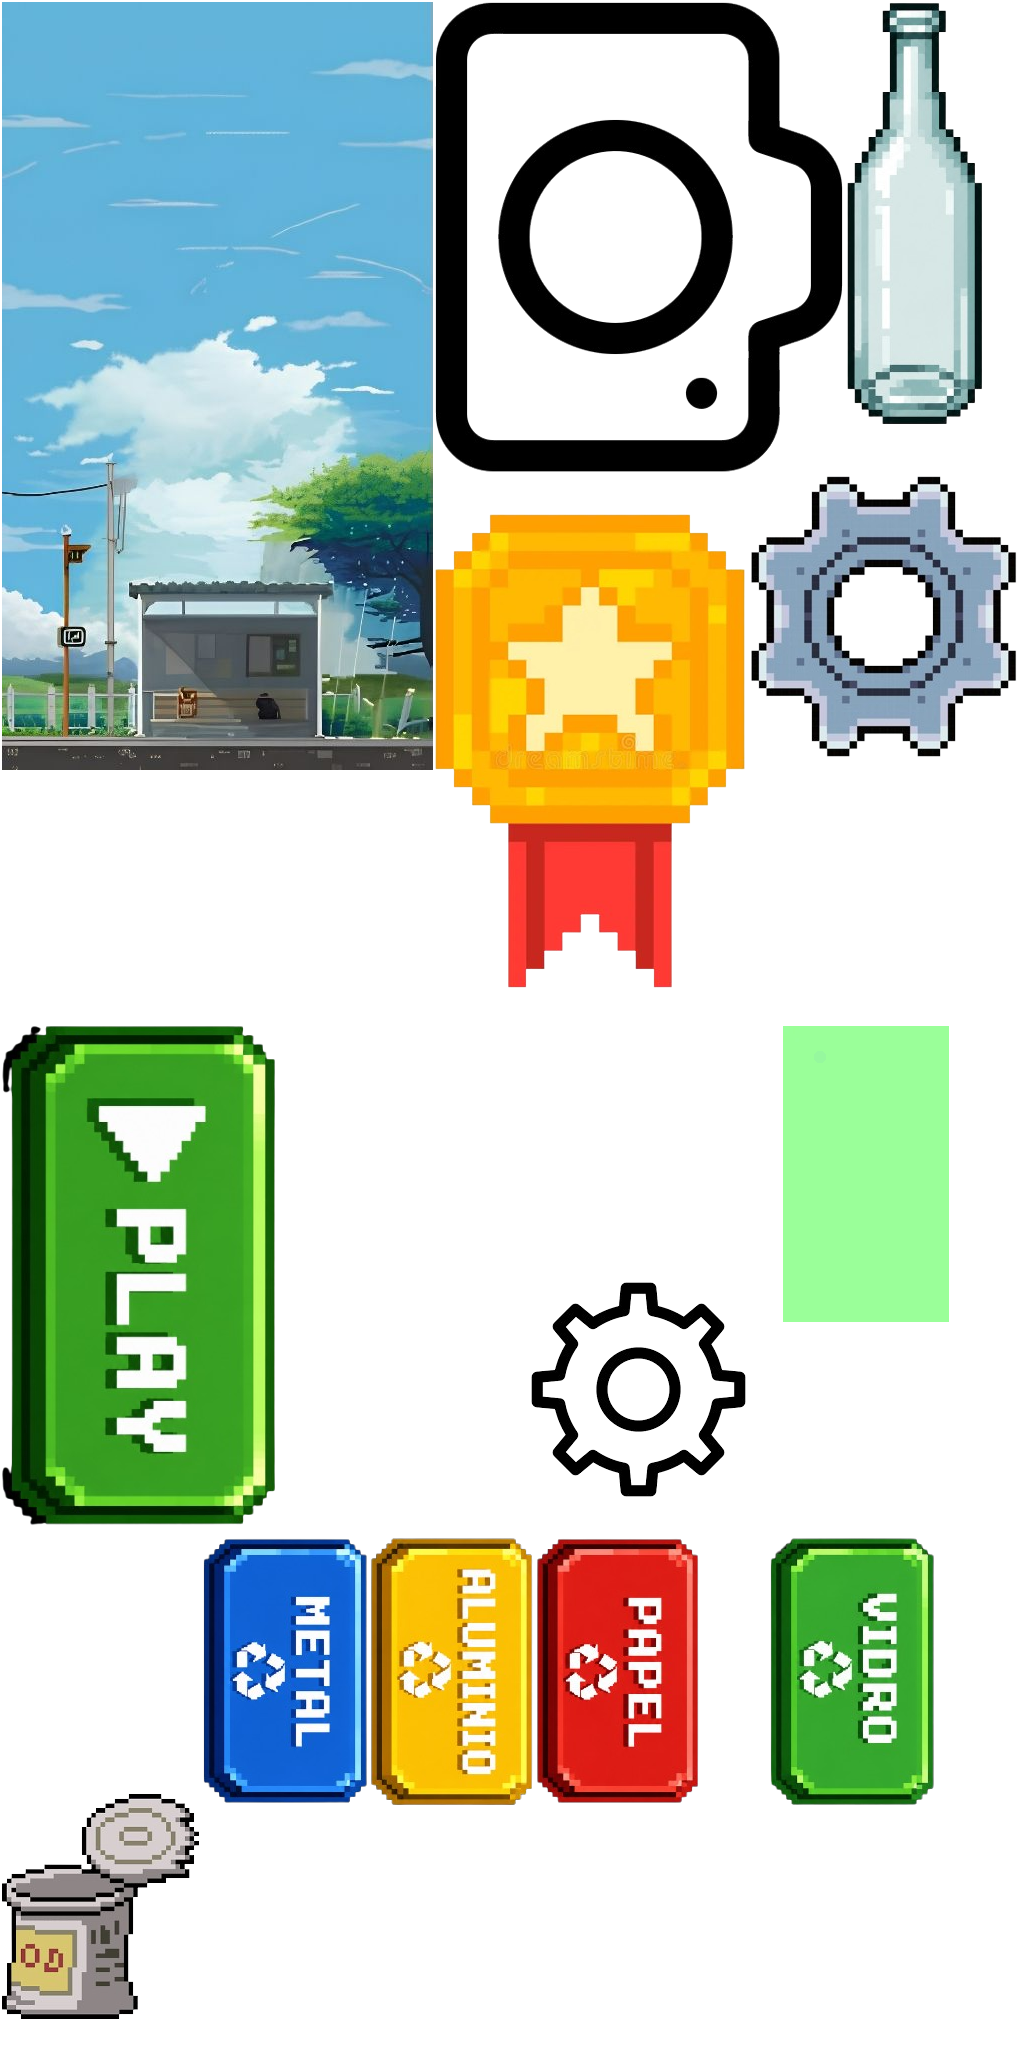
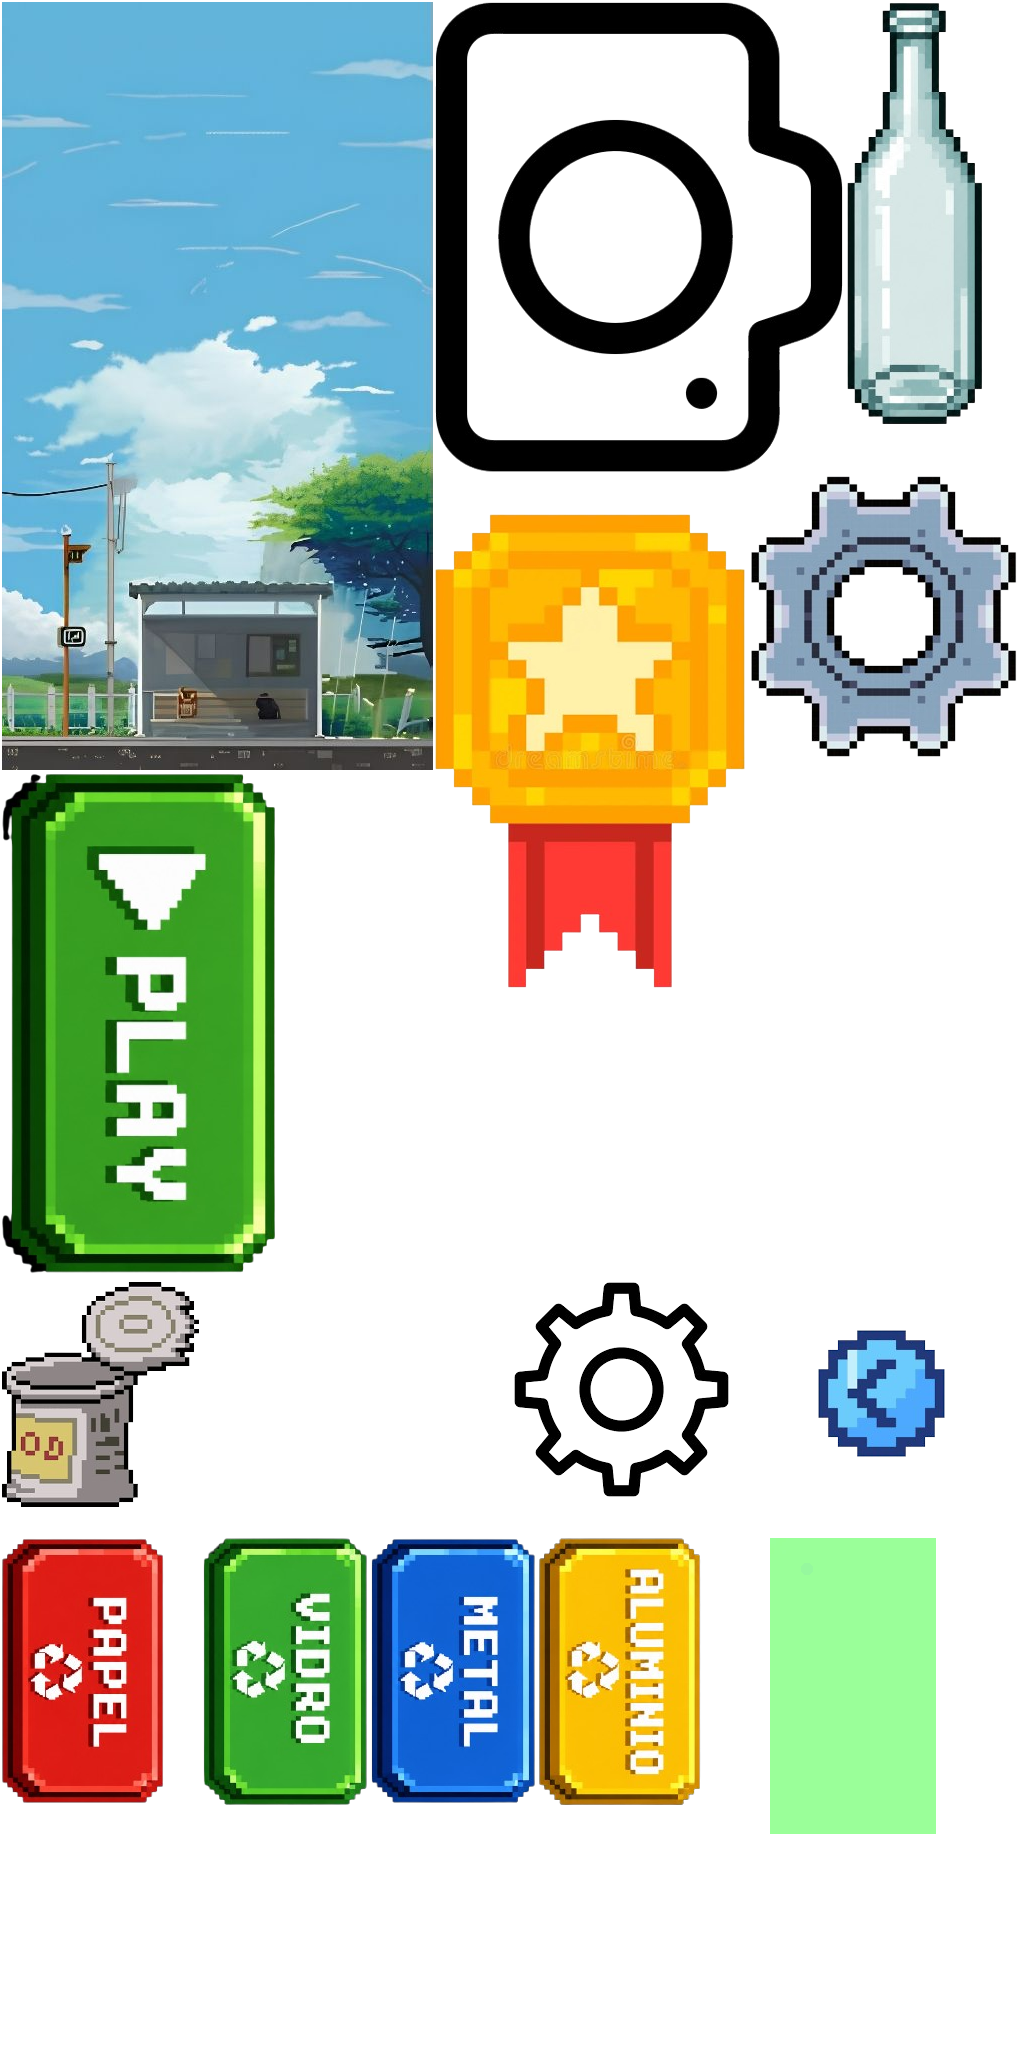
Add files via upload

Changed region(s): [[0.0, 0.375, 0.75, 1.0], [0.75, 0.5, 0.9375, 0.7188], [0.75, 0.75, 0.9375, 0.9062]]

diff --git a/scripts/objRefTable.js b/scripts/objRefTable.js
@@ -53,6 +53,7 @@ self.C3_JsPropNameTable = [
 	{garrafaPx: 0},
 	{papelPx: 0},
 	{vidropx: 0},
+	{voltar: 0},
 	{Ponto: 0}
 ];
 
@@ -84,5 +85,6 @@ self.InstanceType = {
 	latinha2Px: class extends self.ISpriteInstance {},
 	garrafaPx: class extends self.ISpriteInstance {},
 	papelPx: class extends self.ISpriteInstance {},
-	vidropx: class extends self.ISpriteInstance {}
+	vidropx: class extends self.ISpriteInstance {},
+	voltar: class extends self.ISpriteInstance {}
 }